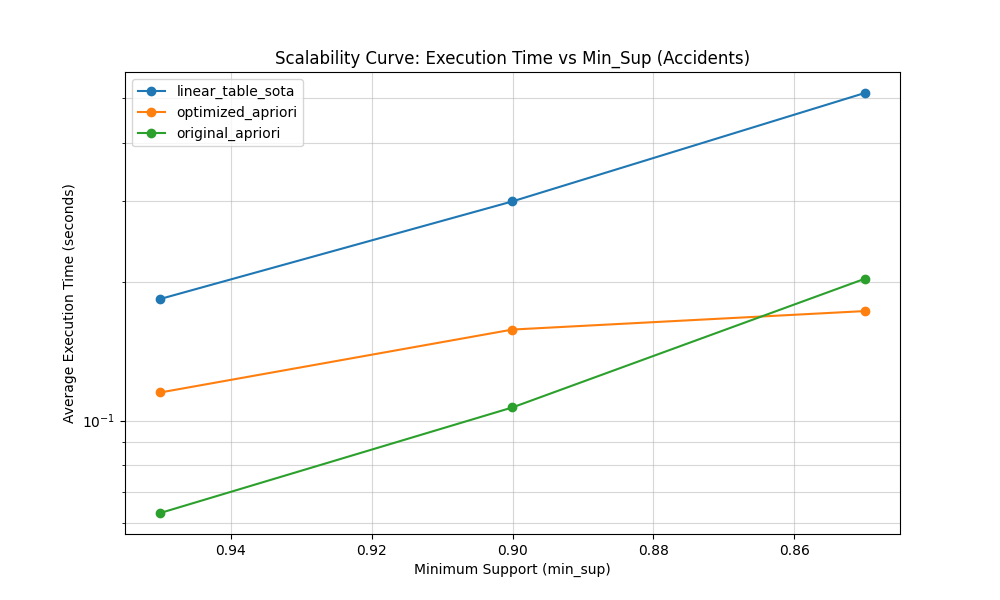
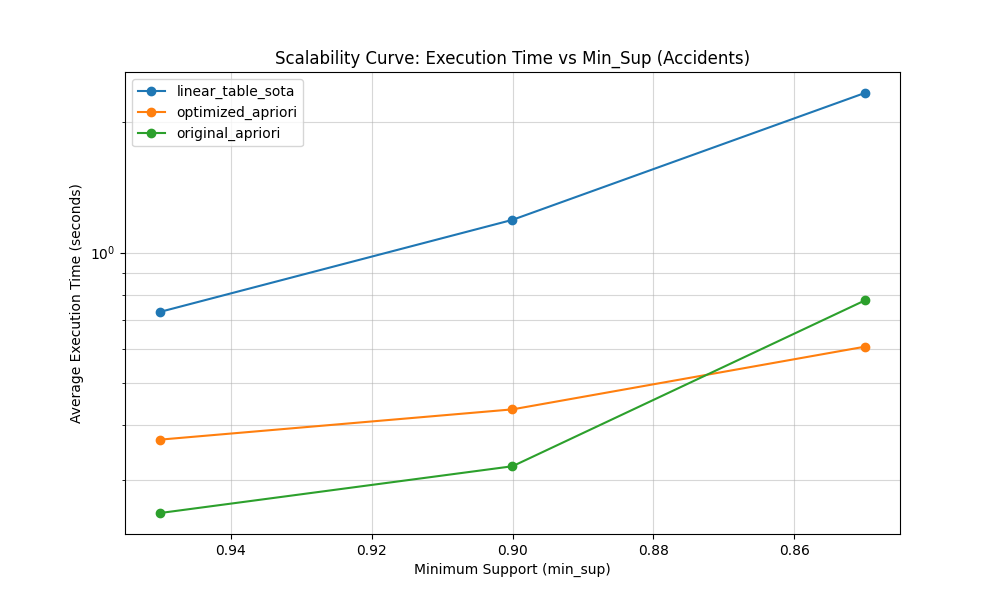
Update benchmark tooling and optimization

diff --git a/cpp/src/linear_table.cpp b/cpp/src/linear_table.cpp
@@ -2,47 +2,137 @@
 
 #include <algorithm>
 #include <cmath>
+#include <thread>
 #include <unordered_map>
 
 namespace ccbench {
 
 namespace {
 
-void apriori_recursive_linear_table(const std::vector<Transaction>& current_table, const Itemset& prefix,
-                                    const std::vector<int>& items_list, std::size_t minimum_support,
-                                    MiningResult& result, double* peak_rss_mb) {
-    for (int index = static_cast<int>(items_list.size()) - 1; index >= 0; --index) {
-        Itemset next_prefix = prefix;
-        next_prefix.push_back(items_list[static_cast<std::size_t>(index)]);
+struct LinearTableFrame {
+    std::vector<Transaction> table;
+    Itemset prefix;
+    std::vector<int> items_list;
+    int next_index;
+};
 
-        std::size_t support = 0;
-        std::vector<Transaction> new_table;
-        for (const auto& transaction : current_table) {
+struct ProjectionResult {
+    std::size_t support = 0;
+    std::vector<Transaction> projected_table;
+};
+
+ProjectionResult project_table(const std::vector<Transaction>& table, int index, std::size_t minimum_support,
+                               unsigned workers) {
+    ProjectionResult result;
+    if (table.empty()) {
+        return result;
+    }
+
+    unsigned thread_count = workers == 0 ? std::thread::hardware_concurrency() : workers;
+    if (thread_count == 0) {
+        thread_count = 1;
+    }
+    thread_count = static_cast<unsigned>(std::min<std::size_t>(thread_count, table.size()));
+
+    if (thread_count <= 1 || table.size() < 256) {
+        for (const auto& transaction : table) {
             const auto it = std::lower_bound(transaction.begin(), transaction.end(), index);
             if (it != transaction.end() && *it == index) {
-                ++support;
-                const auto offset = static_cast<std::size_t>(std::distance(transaction.begin(), it));
-                if (offset > 0) {
-                    new_table.emplace_back(transaction.begin(), transaction.begin() + static_cast<std::ptrdiff_t>(offset));
-                }
+                ++result.support;
             }
         }
+    } else {
+        std::vector<std::size_t> local_supports(thread_count, 0);
+        std::vector<std::thread> pool;
+        pool.reserve(thread_count);
 
-        if (support >= minimum_support) {
-            result.frequent_itemsets[encode_itemset(next_prefix)] = static_cast<int>(support);
-            update_peak(peak_rss_mb);
-
-            if (!new_table.empty() && index > 0) {
-                std::vector<int> next_items(items_list.begin(), items_list.begin() + index);
-                apriori_recursive_linear_table(new_table, next_prefix, next_items, minimum_support, result, peak_rss_mb);
+        const std::size_t chunk_size = (table.size() + thread_count - 1) / thread_count;
+        for (unsigned thread_index = 0; thread_index < thread_count; ++thread_index) {
+            const std::size_t begin = thread_index * chunk_size;
+            const std::size_t end = std::min(table.size(), begin + chunk_size);
+            if (begin >= end) {
+                break;
             }
+
+            pool.emplace_back([thread_index, begin, end, index, &table, &local_supports]() {
+                auto& support = local_supports[thread_index];
+                for (std::size_t row_index = begin; row_index < end; ++row_index) {
+                    const auto& transaction = table[row_index];
+                    const auto it = std::lower_bound(transaction.begin(), transaction.end(), index);
+                    if (it != transaction.end() && *it == index) {
+                        ++support;
+                    }
+                }
+            });
+        }
+
+        for (auto& worker : pool) {
+            worker.join();
+        }
+
+        for (const auto support : local_supports) {
+            result.support += support;
+        }
+    }
+
+    if (result.support < minimum_support) {
+        return result;
+    }
+
+    result.projected_table.reserve(table.size());
+    for (const auto& transaction : table) {
+        const auto it = std::lower_bound(transaction.begin(), transaction.end(), index);
+        if (it != transaction.end() && *it == index) {
+            const auto offset = static_cast<std::size_t>(std::distance(transaction.begin(), it));
+            if (offset > 0) {
+                result.projected_table.emplace_back(transaction.begin(),
+                                                   transaction.begin() + static_cast<std::ptrdiff_t>(offset));
+            }
+        }
+    }
+
+    return result;
+}
+
+void linear_table_dfs_iterative(std::vector<Transaction> initial_table, std::vector<int> initial_items,
+                                std::size_t minimum_support, unsigned workers, MiningResult& result,
+                                double* peak_rss_mb) {
+    std::vector<LinearTableFrame> stack;
+    const int initial_index = static_cast<int>(initial_items.size()) - 1;
+    stack.push_back({std::move(initial_table), Itemset{}, std::move(initial_items), initial_index});
+
+    while (!stack.empty()) {
+        LinearTableFrame& frame = stack.back();
+        if (frame.next_index < 0) {
+            stack.pop_back();
+            continue;
+        }
+
+        const int index = frame.next_index;
+        --frame.next_index;
+
+        Itemset next_prefix = frame.prefix;
+        next_prefix.push_back(frame.items_list[static_cast<std::size_t>(index)]);
+
+        const ProjectionResult projection = project_table(frame.table, index, minimum_support, workers);
+        if (projection.support < minimum_support) {
+            continue;
+        }
+
+        result.frequent_itemsets[encode_itemset(next_prefix)] = static_cast<int>(projection.support);
+        update_peak(peak_rss_mb);
+
+        if (!projection.projected_table.empty() && index > 0) {
+            std::vector<int> next_items(frame.items_list.begin(), frame.items_list.begin() + index);
+            stack.push_back({std::move(projection.projected_table), std::move(next_prefix), std::move(next_items),
+                             index - 1});
         }
     }
 }
 
 }  // namespace
 
-MiningResult linear_table_mine(const Dataset& dataset, double min_sup, double* peak_rss_mb) {
+MiningResult linear_table_mine(const Dataset& dataset, double min_sup, unsigned workers, double* peak_rss_mb) {
     MiningResult result;
     if (dataset.empty()) {
         return result;
@@ -103,7 +193,8 @@ MiningResult linear_table_mine(const Dataset& dataset, double min_sup, double* p
         items_list.push_back(item);
     }
 
-    apriori_recursive_linear_table(linear_table, prefix, items_list, minimum_support, result, peak_rss_mb);
+    linear_table_dfs_iterative(std::move(linear_table), std::move(items_list), minimum_support, workers, result,
+                               peak_rss_mb);
     return result;
 }
 

diff --git a/stats.py b/stats.py
@@ -2,10 +2,14 @@ import pandas as pd
 import matplotlib.pyplot as plt
 from pathlib import Path
 
-# 1. Load the data
-df = pd.read_csv('results.csv')
+# Resolve paths relative to this script, not the current working directory.
+base_dir = Path(__file__).resolve().parent
+results_path = base_dir / 'cpp' / 'results.csv'
+graphs_dir = base_dir / 'Graphs'
 
-graphs_dir = Path('Graphs')
+# 1. Load the data
+df = pd.read_csv(results_path)
+
 graphs_dir.mkdir(exist_ok=True)
 
 # 2. Calculate Averages (The "Rule of Three" average)

diff --git a/cpp/src/benchmark.cpp b/cpp/src/benchmark.cpp
@@ -101,7 +101,7 @@ MiningResult run_algorithm(const std::string& algorithm, const Dataset& dataset,
         return apriori_optimized(dataset, min_sup, workers, peak_rss_mb);
     }
     if (algorithm == "linear_table_sota") {
-        return linear_table_mine(dataset, min_sup, peak_rss_mb);
+        return linear_table_mine(dataset, min_sup, workers, peak_rss_mb);
     }
     throw std::runtime_error("Unknown algorithm: " + algorithm);
 }

diff --git a/cpp/include/linear_table.h b/cpp/include/linear_table.h
@@ -4,6 +4,7 @@
 
 namespace ccbench {
 
-MiningResult linear_table_mine(const Dataset& dataset, double min_sup, double* peak_rss_mb = nullptr);
+MiningResult linear_table_mine(const Dataset& dataset, double min_sup, unsigned workers = 0,
+							   double* peak_rss_mb = nullptr);
 
 }  // namespace ccbench

diff --git a/README.md b/README.md
@@ -14,7 +14,7 @@ This repository contains a frequent-itemset mining benchmark for the Design and 
 
 ## Project layout
 
-- `cpp/` - C++ implementation, build files, and benchmark CLI
+- `cpp/` - C++ implementation, build files, and benchmark CLI (`ccbench_cpp`)
 - `Dataset/` - benchmark datasets
 - `md/` - reports and submission notes
 - `results.csv` - latest benchmark output
@@ -33,14 +33,14 @@ Quick test:
 
 ```powershell
 cd D:\Code\DAAProject\cpp
-./build/Release/ccn2_cpp.exe --quick
+./build/Release/ccbench_cpp.exe --quick
 ```
 
 Full benchmark:
 
 ```powershell
 cd D:\Code\DAAProject\cpp
-./build/Release/ccn2_cpp.exe --workers 8
+./build/Release/ccbench_cpp.exe --workers 8
 ```
 
 ## Notes
